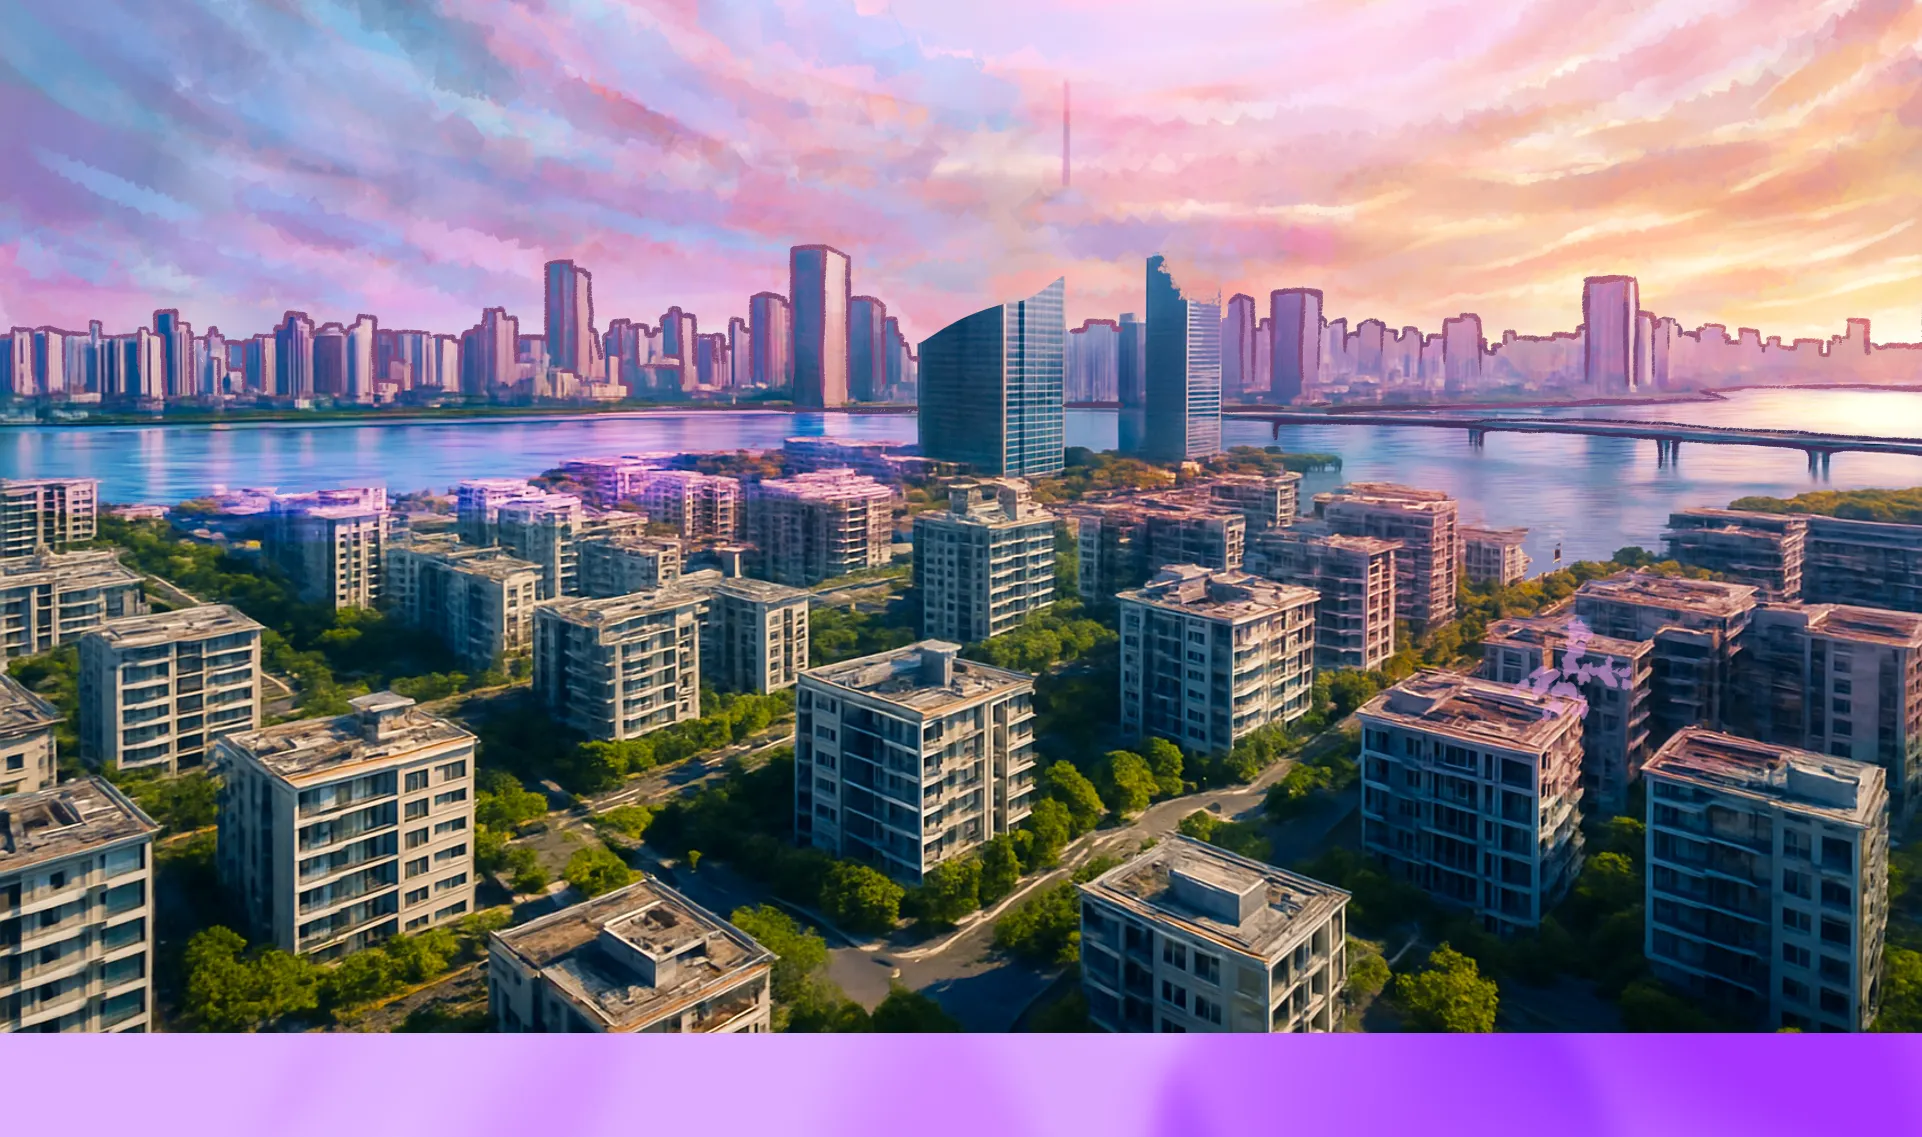
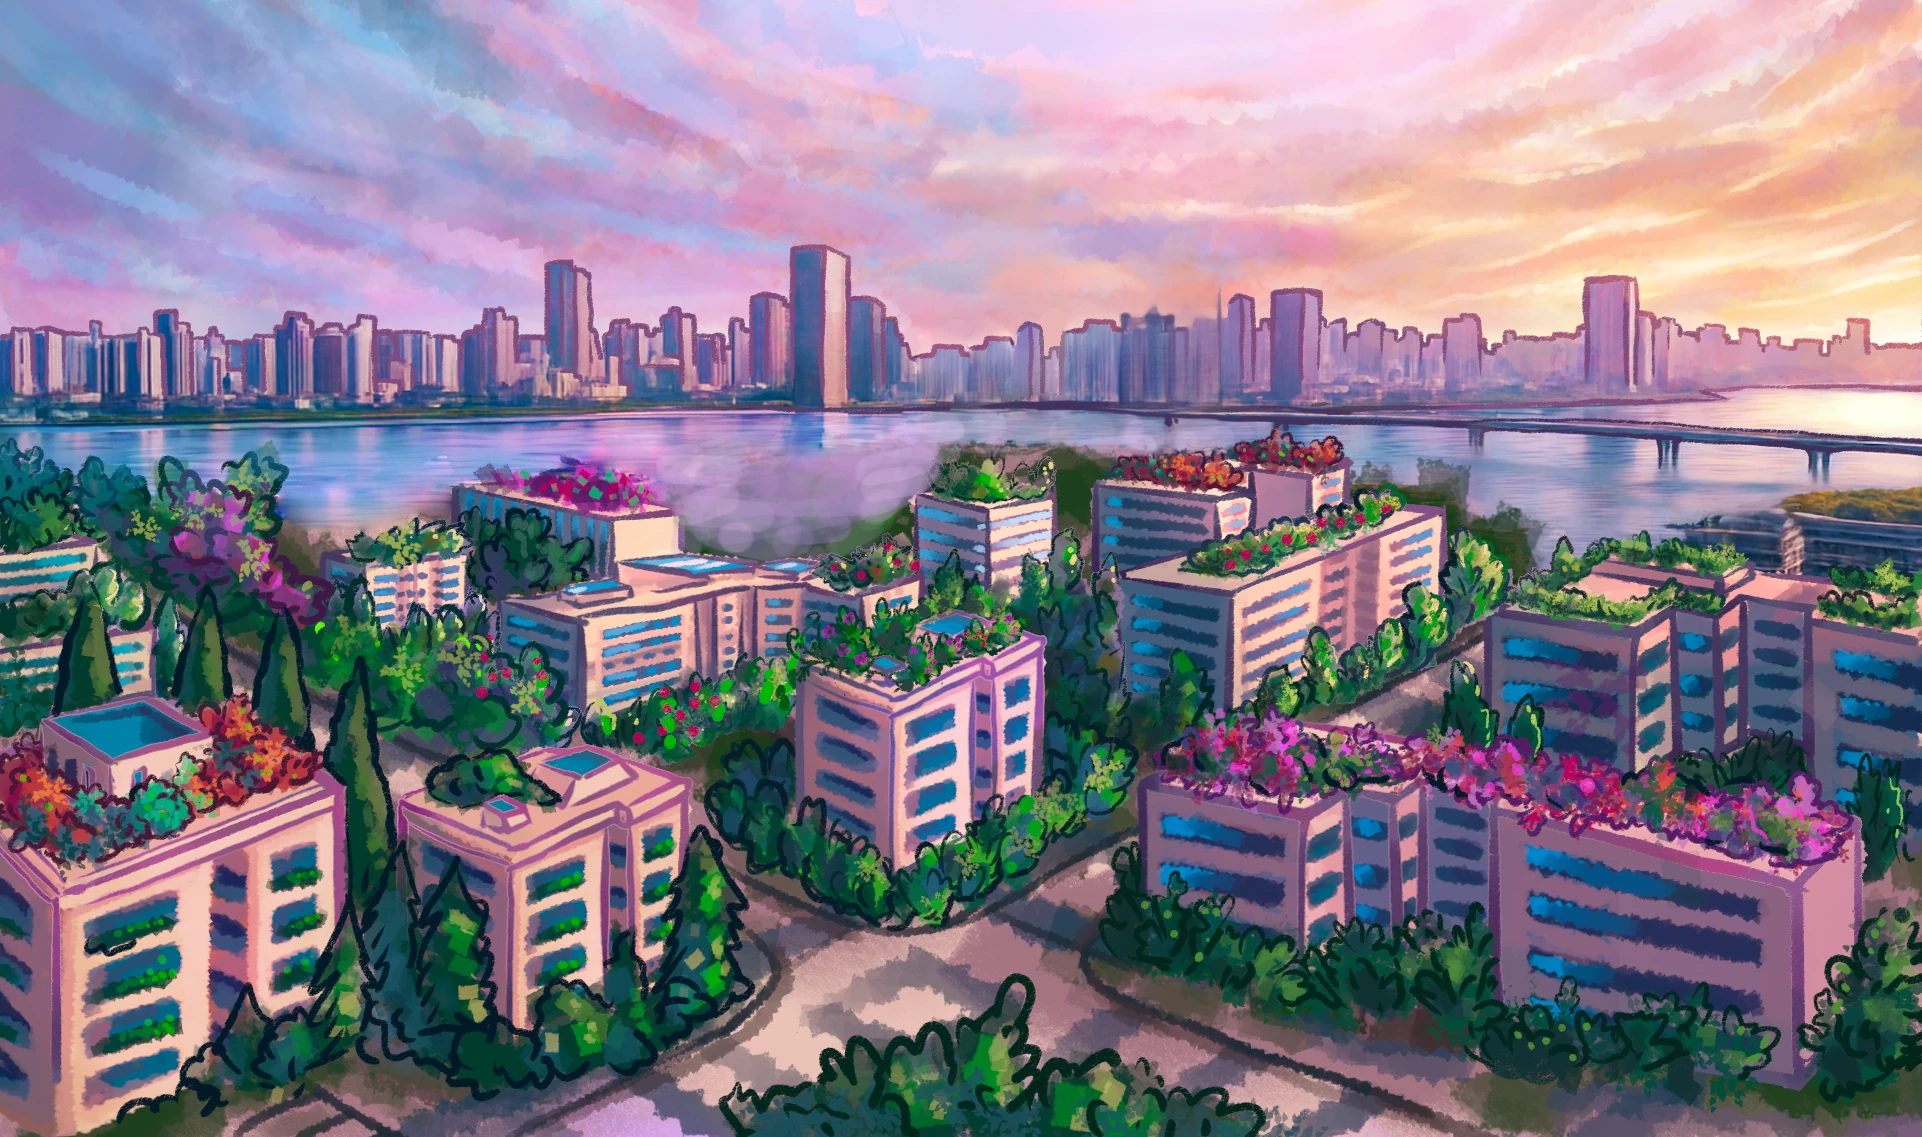
city1.webp

diff --git a/scratch/convert_city1.js b/scratch/convert_city1.js
@@ -1,0 +1,33 @@
+const sharp = require('sharp');
+const path = require('path');
+const fs = require('fs');
+
+async function convert() {
+  const input = path.join(process.cwd(), 'public', 'images', 'city1.png');
+  const output = path.join(process.cwd(), 'public', 'images', 'city1.webp');
+
+  if (!fs.existsSync(input)) {
+    console.error('Source file not found:', input);
+    return;
+  }
+
+  try {
+    console.log('Starting conversion of city1.png...');
+    await sharp(input)
+      .webp({ quality: 90, effort: 6 }) // High quality, high effort for better compression
+      .toFile(output);
+    console.log('Successfully converted city1.png to city1.webp');
+    
+    // Log sizes for comparison
+    const oldSize = fs.statSync(input).size / 1024;
+    const newSize = fs.statSync(output).size / 1024;
+    console.log(`Original Size: ${oldSize.toFixed(2)} KB`);
+    console.log(`WebP Size: ${newSize.toFixed(2)} KB`);
+    console.log(`Reduction: ${(((oldSize - newSize) / oldSize) * 100).toFixed(1)}%`);
+
+  } catch (err) {
+    console.error('Conversion failed:', err);
+  }
+}
+
+convert();
